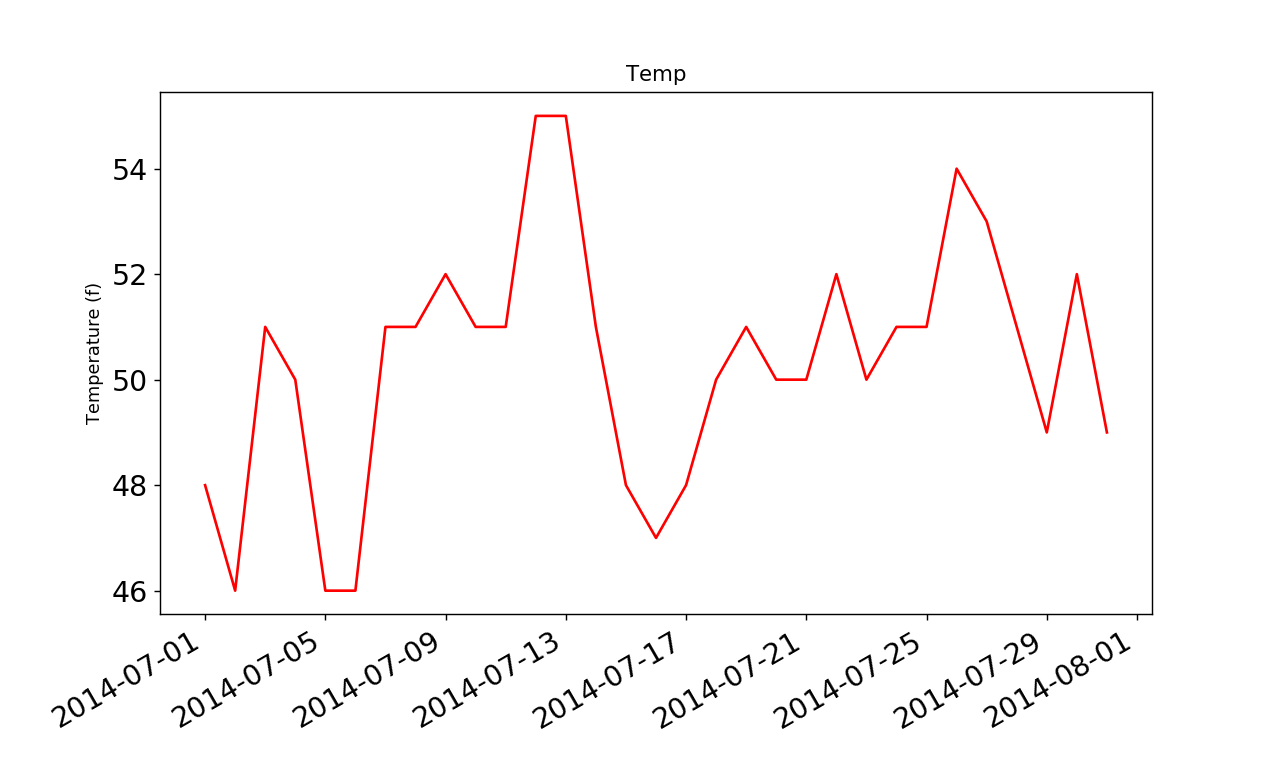
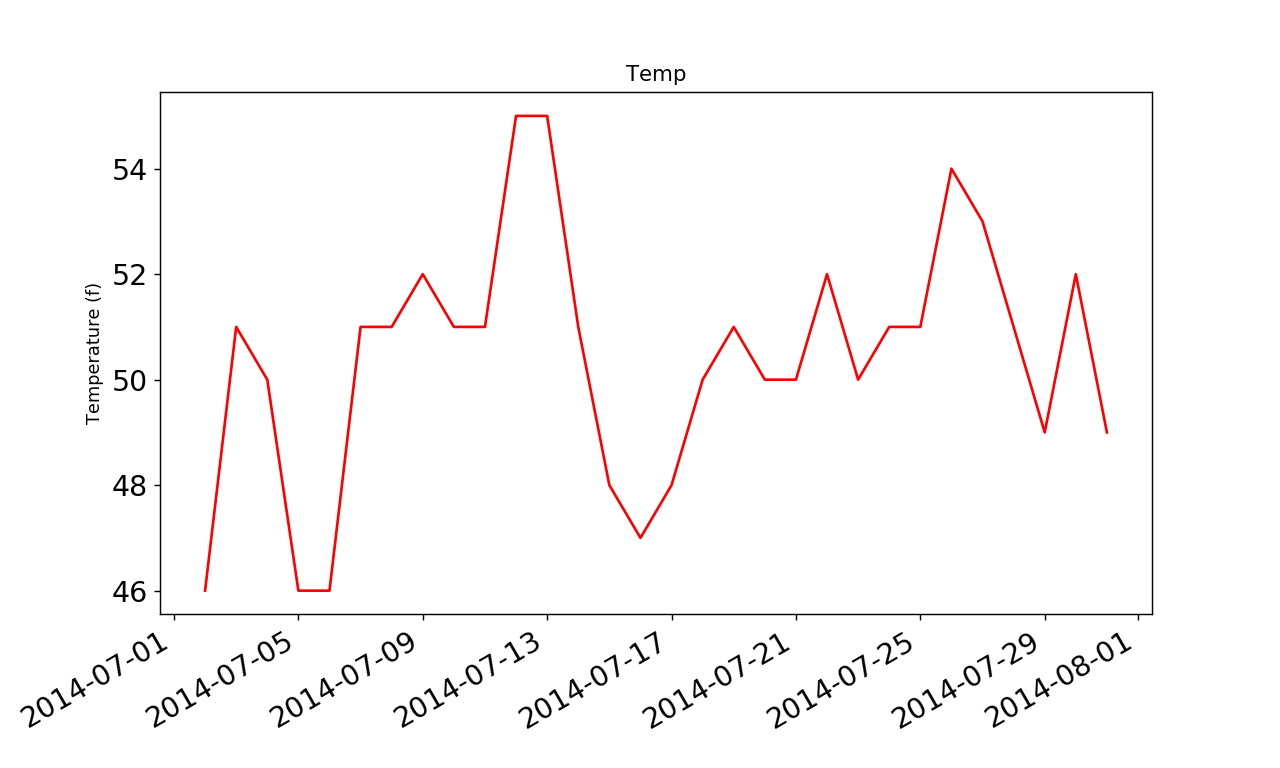
update figures

diff --git a/temp.py b/temp.py
@@ -14,20 +14,21 @@ filename = 'sitka_weather_07-2014.csv'
 with open(filename) as f:
     reader = csv.reader(f)
     header_row = next(reader)
-    temp = next(reader)
+#    temp = next(reader)
     highs = []
-    dates = []
+#    dates = []
     for row in reader:
-        current_date = datetime.strptime(row[0], "%Y-%m-%d")
+#        current_date = datetime.strptime(row[0], "%Y-%m-%d")
         highs.append(int(row[6]))
-        dates.append(current_date)
-#    print(highs)
+#        dates.append(current_date)
+    print(highs)
+#    print(dates)
     fig = p.figure(dpi=128, figsize=(10, 6))
-    p.plot(dates, highs, c='red')
+    p.plot(highs, c='red')
     p.title("Temp")
-    fig.autofmt_xdate()
+#    fig.autofmt_xdate()
     p.xlabel("", fontsize=16)
     p.ylabel("Temperature (f)", fontsize=10)
     p.tick_params(axis="both", which='major', labelsize=16)
-    p.savefig('2.png')
+#    p.savefig('2.png')
     
